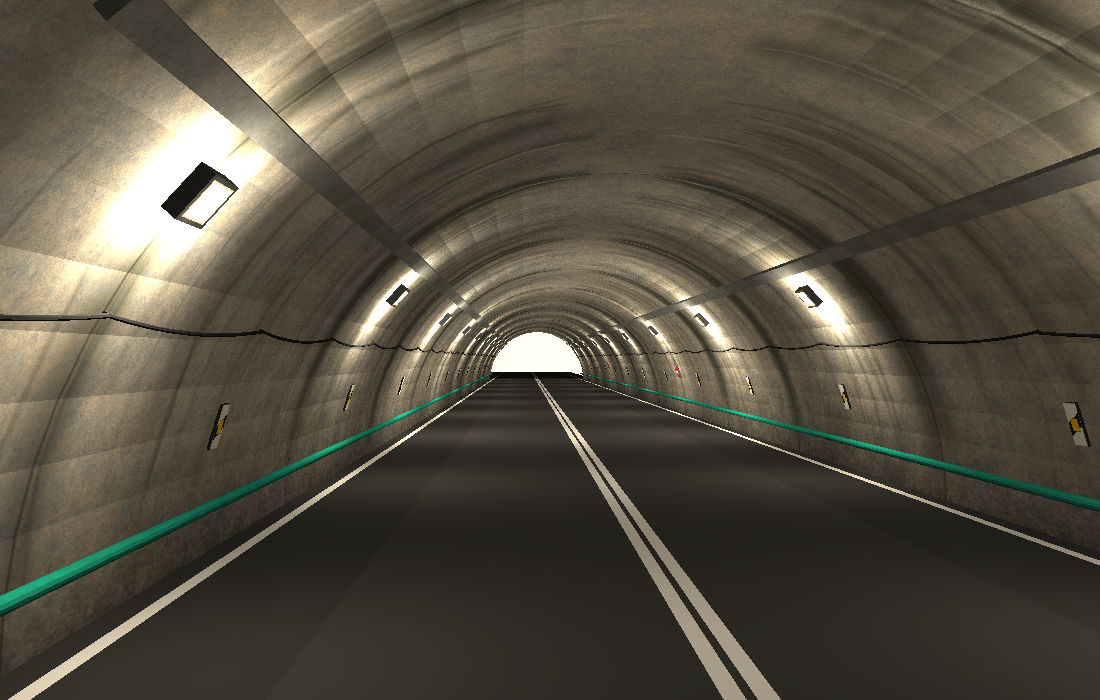
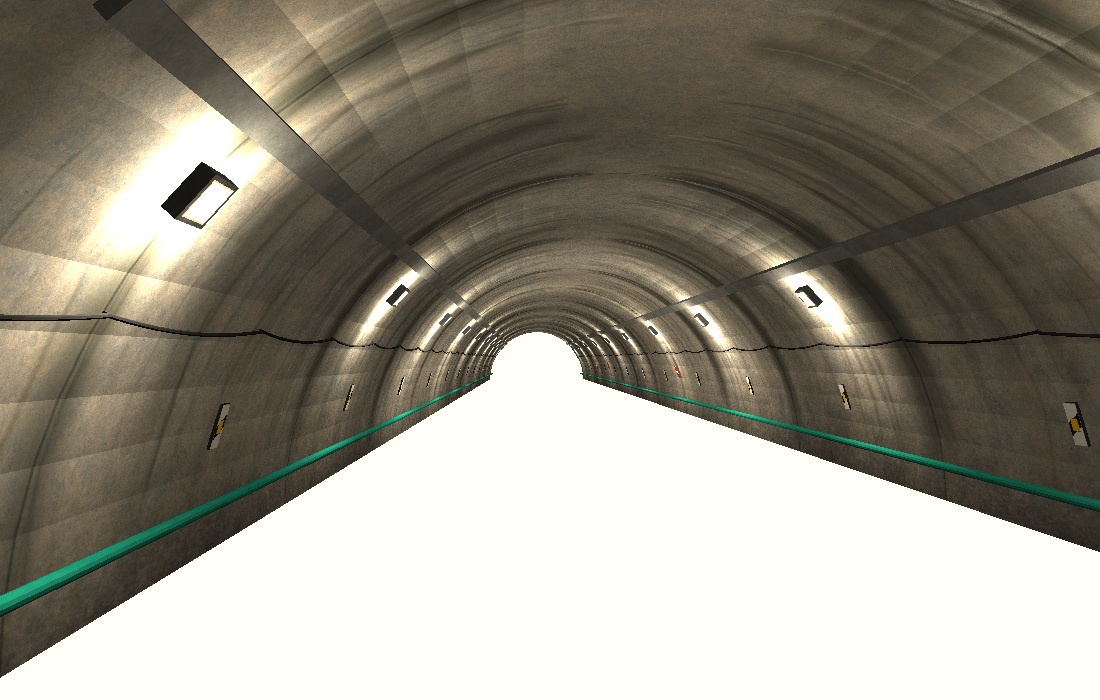
Tunnel previews: drop the stand-in road
The FBX pieces never contained road geometry; only the preview renders
drew a placeholder road and lane lines. Re-rendered without it.

Claude-Session: https://claude.ai/code/session_01FofVa6tF2qdaGEDosgLnTu

diff --git a/tunnel_a384/README.md b/tunnel_a384/README.md
@@ -9,9 +9,9 @@ tunnel plate on the crown.
 ![seam](preview/seam.png)
 ![portal](preview/portal.png)
 
-The previews come from a simple software renderer with flat shading and a
-stand-in road. The scene is end piece + 2 centre pieces + an end piece turned
-180°. The previews show placement, texturing and seams, not what AC will look like.
+The previews come from a simple software renderer with flat shading. The
+floor shows as blank because the pieces contain no road. The scene is end
+piece + 2 centre pieces + an end piece turned 180°. The previews show placement, texturing and seams, not what AC will look like.
 
 ## Files
 
